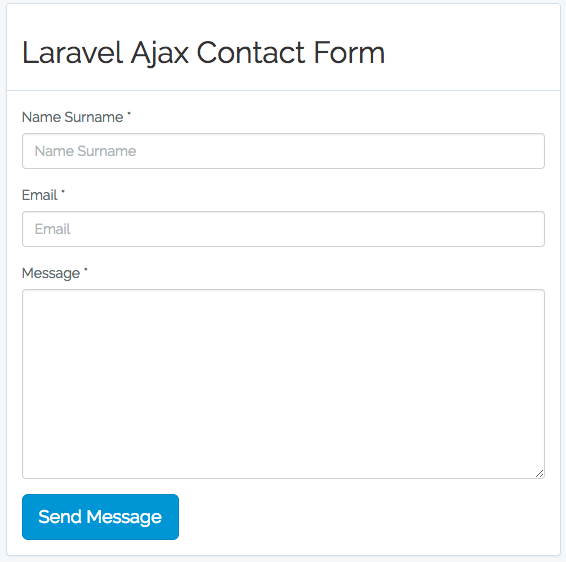
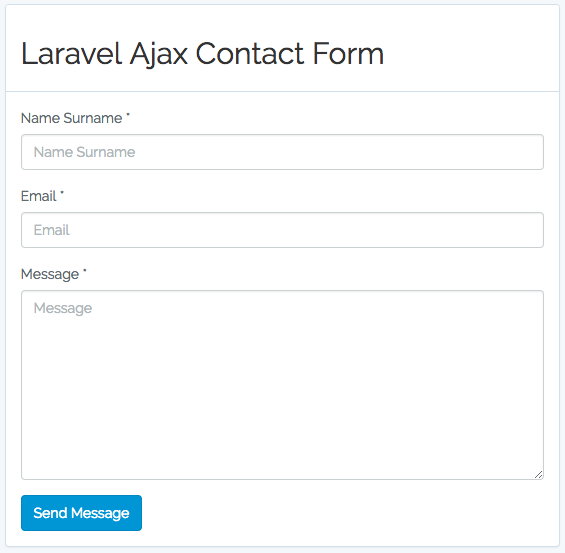
changed

Changed region(s): [[0.0, 0.0, 0.9929, 0.9837], [0.9327, 0.83, 0.9628, 0.8608]]

diff --git a/public/js/custom.js b/public/js/custom.js
@@ -2,23 +2,6 @@
 
 	'use strict';
 
-
-	$.validator.addMethod("noSpace", function(value, element) {
-    	return value.search(/[a-z0-9]/i) == 0;
-	}, 'Please fill this required field.');
-
-	/*
-	Assign Custom Rules on Fields
-	*/
-	$.validator.addClassRules({
-	    'form-control': {
-	        noSpace: true
-	    }
-	});
-
-	/*
-	Contact Form: Basic
-	*/
 	$('#contactForm').validate({
 		submitHandler: function(form) {
 
@@ -31,7 +14,6 @@
 
 			$submitButton.val( $submitButton.data('loading-text') ? $submitButton.data('loading-text') : 'Loading...' ).attr('disabled', true);
 
-			// Ajax Submit
 			$.ajax({
 				type: 'POST',
 				url: $form.attr('action'),
@@ -50,21 +32,7 @@
 					$messageSuccess.removeClass('hide-box');
 					$messageError.addClass('hide-box');
 
-					// Reset Form
-					$form.find('.form-control')
-						.val('')
-						.blur()
-						.parent()
-						.removeClass('has-success')
-						.removeClass('has-danger')
-						.find('label.error')
-						.remove();
-
-					if (($messageSuccess.offset().top - 80) < $(window).scrollTop()) {
-						$('html, body').animate({
-							scrollTop: $messageSuccess.offset().top - 80
-						}, 300);
-					}
+					$form.find('.form-control').val('').blur().parent().removeClass('has-success').removeClass('has-danger').find('label.error').remove();
 
 					$form.find('.form-control').removeClass('error');
 
@@ -72,23 +40,14 @@
 					
 					return;
 
-				} else if (data.response == 'error' && typeof data.errorMessage !== 'undefined') {
-					$errorMessage.html(data.errorMessage).show();
 				} else {
-					$errorMessage.html(data.responseText).show();
+					$errorMessage.html(data.errorMessage).show();
 				}
 
 				$messageError.removeClass('hide-box');
 				$messageSuccess.addClass('hide-box');
 
-				if (($messageError.offset().top - 80) < $(window).scrollTop()) {
-					$('html, body').animate({
-						scrollTop: $messageError.offset().top - 80
-					}, 300);
-				}
-
-				$form.find('.has-success')
-					.removeClass('has-success');
+				$form.find('.has-success').removeClass('has-success');
 					
 				$submitButton.val( submitButtonText ).attr('disabled', false);
 

diff --git a/public/css/custom.css b/public/css/custom.css
@@ -1,0 +1,61 @@
+/* Forms */
+form label {
+    font-weight: normal;
+}
+
+textarea {
+    resize: vertical;
+}
+
+select {
+    border: 1px solid #E5E7E9;
+    border-radius: 6px;
+    outline: none;
+}
+
+.label {
+    font-weight: normal;
+}
+
+.form-group:after {
+    content: ".";
+    display: block;
+    clear: both;
+    visibility: hidden;
+    line-height: 0;
+    height: 0;
+}
+
+.form-control:focus {
+    box-shadow: 0 1px 1px rgba(0, 0, 0, 0.075) inset;
+    border-color: #CCC;
+}
+
+.form-control.error {
+    border-color: #a94442;
+    -webkit-box-shadow: inset 0 1px 1px rgba(0, 0, 0, 0.075);
+    box-shadow: inset 0 1px 1px rgba(0, 0, 0, 0.075);
+}
+
+.form-control.error:focus {
+    border-color: #843534;
+    -webkit-box-shadow: inset 0 1px 1px rgba(0, 0, 0, 0.075), 0 0 6px #ce8483;
+    box-shadow: inset 0 1px 1px rgba(0, 0, 0, 0.075), 0 0 6px #ce8483;
+}
+
+/* Forms Validations */
+label.valid {
+    display: inline-block;
+    text-indent: -9999px;
+}
+
+label.error {
+    color: #c10000;
+    font-size: 0.9em;
+    line-height: 18px;
+    padding: 5px 0 0;
+}
+
+.hide-box {
+    display: none!important;
+}

diff --git a/resources/views/ajax-form.blade.php b/resources/views/ajax-form.blade.php
@@ -5,7 +5,7 @@
         <meta http-equiv="X-UA-Compatible" content="IE=edge">
         <meta name="viewport" content="width=device-width, initial-scale=1">
 
-        <title>Laravel</title>
+        <title>Laravel Ajax Contact Form</title>
 
         <!-- CSRF Token -->
         <meta name="csrf-token" content="{{ csrf_token() }}">
@@ -14,71 +14,8 @@
 
         <!-- Styles -->
         <link href="{{ asset('css/app.css') }}" rel="stylesheet">
-        <!-- Styles -->
-        <style>
-            /* Forms */
-            form label {
-                font-weight: normal;
-            }
-
-            textarea {
-                resize: vertical;
-            }
-
-            select {
-                border: 1px solid #E5E7E9;
-                border-radius: 6px;
-                outline: none;
-            }
-
-            .label {
-                font-weight: normal;
-            }
-
-            .form-group:after {
-                content: ".";
-                display: block;
-                clear: both;
-                visibility: hidden;
-                line-height: 0;
-                height: 0;
-            }
-
-            .form-control:focus {
-                box-shadow: 0 1px 1px rgba(0, 0, 0, 0.075) inset;
-                border-color: #CCC;
-            }
-
-            .form-control.error {
-                border-color: #a94442;
-                -webkit-box-shadow: inset 0 1px 1px rgba(0, 0, 0, 0.075);
-                box-shadow: inset 0 1px 1px rgba(0, 0, 0, 0.075);
-            }
-
-            .form-control.error:focus {
-                border-color: #843534;
-                -webkit-box-shadow: inset 0 1px 1px rgba(0, 0, 0, 0.075), 0 0 6px #ce8483;
-                box-shadow: inset 0 1px 1px rgba(0, 0, 0, 0.075), 0 0 6px #ce8483;
-            }
-
-            /* Forms Validations */
-            label.valid {
-                display: inline-block;
-                text-indent: -9999px;
-            }
-
-            label.error {
-                color: #c10000;
-                font-size: 0.9em;
-                line-height: 18px;
-                padding: 5px 0 0;
-            }
-
-            .hide-box {
-                display: none!important;
-            }
-           
-        </style>
+        <link href="{{ asset('css/custom.css') }}" rel="stylesheet">
+        
     </head>
     <body>
 
@@ -109,8 +46,7 @@
 
                     <!-- Right Side Of Navbar -->
                     <ul class="nav navbar-nav navbar-right">
-                        <li><a href="">Simple Table</a></li>
-                        <li><a href="">Simple Table</a></li>
+                        <li><a href="https://www.yakuter.com" target="_blank">Yakuter</a></li>
                         
                     </ul>
                 </div>
@@ -151,10 +87,10 @@
 
                                 <div class="form-group">
                                     <label>Message *</label>
-                                    <textarea maxlength="5000" data-msg-required="Please enter your message" rows="8" class="form-control" name="message" id="message" required></textarea>                       
+                                    <textarea maxlength="5000" data-msg-required="Please enter your message" rows="8" class="form-control" name="message" id="message" placeholder="Message" required></textarea>                       
                                 </div>
 
-                                <input type="submit" value="Send Message" class="btn btn-primary btn-lg" data-loading-text="Sending...">
+                                <input type="submit" value="Send Message" class="btn btn-primary" data-loading-text="Sending...">
                             </form>
 
                         </div>
@@ -168,7 +104,7 @@
     <script src="{{ asset('js/app.js') }}"></script>
     <script src="https://code.jquery.com/jquery-3.2.1.js"></script>
     <script src="{{ asset('js/jquery.validation.min.js') }}"></script>
-    <script src="{{ asset('js/ajax-form.js') }}"></script>
+    <script src="{{ asset('js/custom.js') }}"></script>
 
     </body>
 </html>

diff --git a/app/Http/Controllers/AjaxController.php b/app/Http/Controllers/AjaxController.php
@@ -6,7 +6,6 @@ use App\Http\Controllers\Controller;
 use Illuminate\Http\Request;
 use Mail;
 
-
 class AjaxController extends Controller
 {
 
@@ -26,7 +25,6 @@ class AjaxController extends Controller
             $to_name  = "Erhan Yakut";
             $subject  = "Laravel Ajax Form Message";
 
-            /* Send Mail ******* */
             $message->subject ($subject);
             $message->from ($request->email, $request->name);
             $message->to ($to_email, $to_name);
@@ -34,16 +32,11 @@ class AjaxController extends Controller
 
         if(count(Mail::failures()) > 0){
             $status = 'error';
-            return response()->json(['response' => $status, 'responseText' => '']);
         } else {
             $status = 'success';
-            return response()->json(['response' => $status]);
         }
 
-
-        
-        
-        //return response()->json(['response' => $status]);
+        return response()->json(['response' => $status]);
     }
 
 }

diff --git a/routes/web.php b/routes/web.php
@@ -12,4 +12,5 @@
 */
 
 Route::get('/', function () {return view('ajax-form');});
+
 Route::post('/send', 'AjaxController@send');
